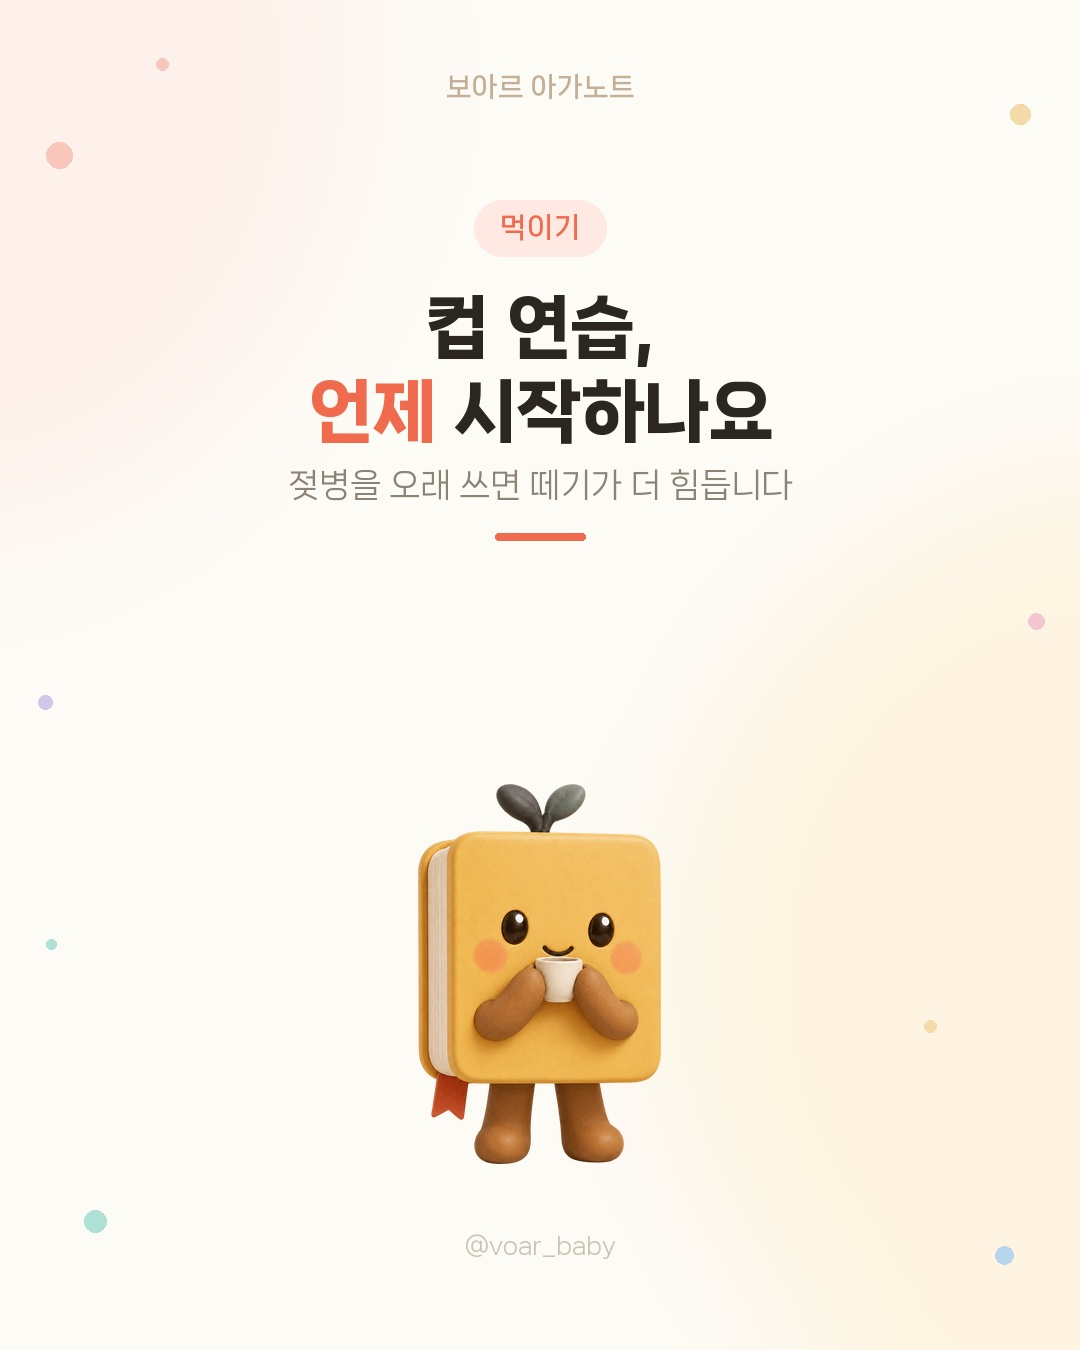
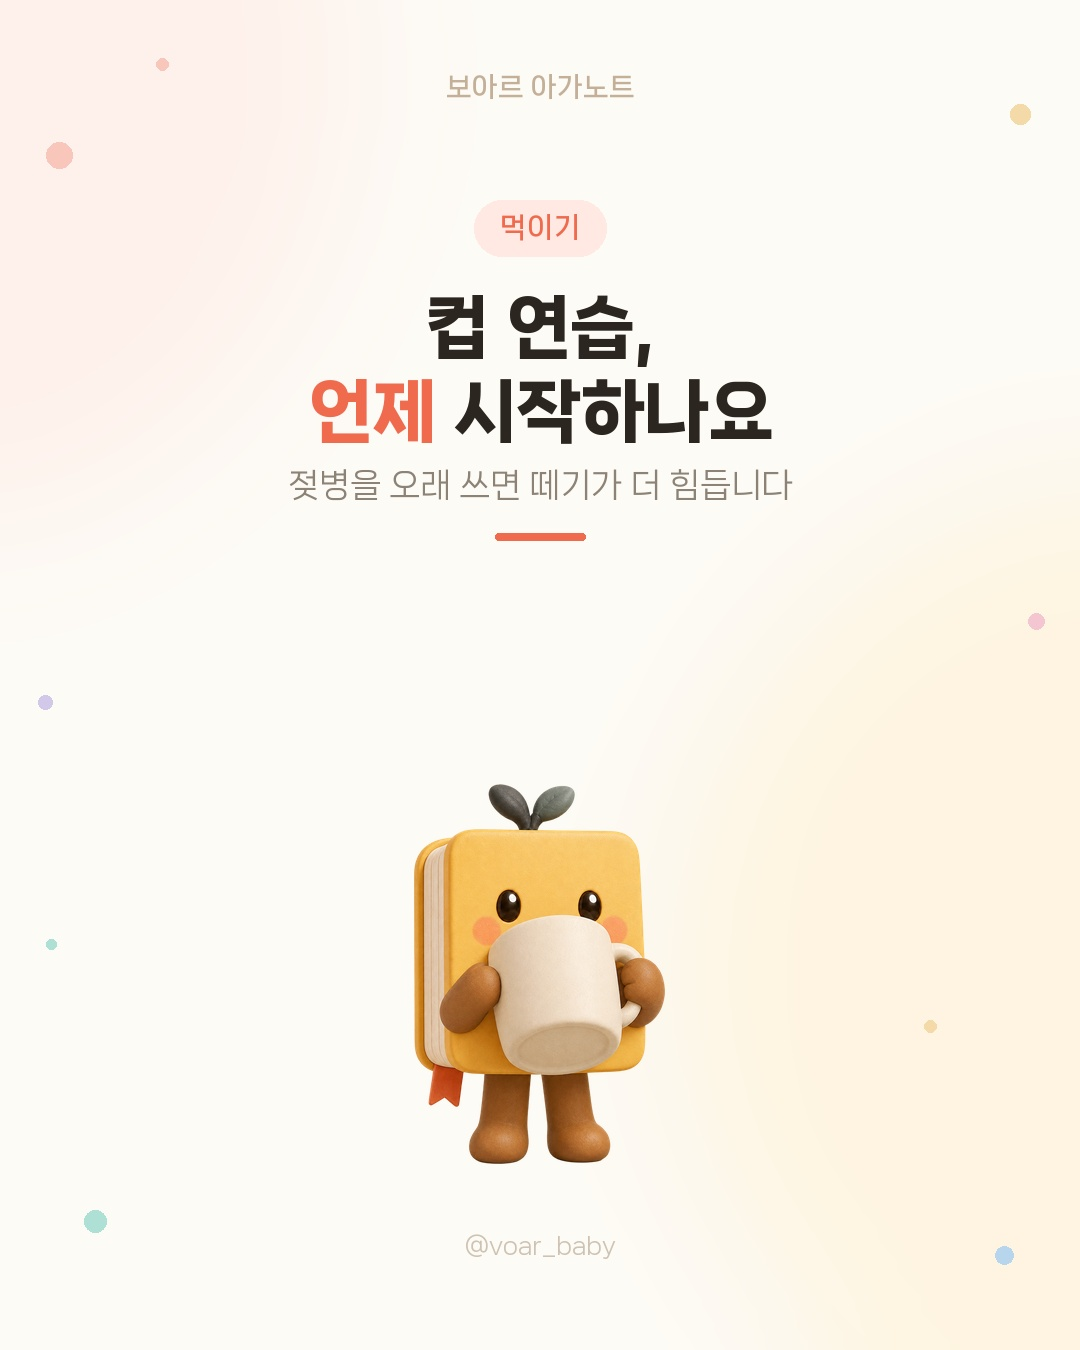
승인 대기 4건 표지에 주제별 노티 적용
컵 연습·아기 물·백일의 기적·배꼽 소독. 소품이 작으면 안 읽혀서
컵은 크게 다시 뽑았다. 배꼽 편은 반창고가 안 나와 원래 걱정 포즈와
비슷해졌다 — 주제에 따라 AI 가 보탤 게 없는 경우가 있다.

Changed region(s): [[0.3667, 0.6222, 0.6417, 0.8711], [0.4278, 0.56, 0.55, 0.6222]]

diff --git a/_studio/posts_a7.py b/_studio/posts_a7.py
@@ -197,8 +197,8 @@ A7['navel'] = [
  dict(kind='text', eyebrow='위생', top=200, size=68,
       title=[['배꼽 소독,'], [('언제까지',), ' 하나요']],
       sub='건드리기 무서우시죠',
-      lines=[], noti=({'name': 'swab_hold',
-             'prompt': '한 손에 면봉을 조심스럽게 들고 있는 모습, 조금 걱정스러운 표정',
+      lines=[], noti=({'name': 'navel_patch',
+             'prompt': '배 한가운데에 동그란 반창고가 붙어 있고 두 손으로 배를 살짝 감싼 모습',
              'base': 'worry'}, 380), noti_y=186),
  dict(kind='rows', eyebrow='기간', title=[['떨어지고'], [('며칠',), ' 더']],
       rows=[('떨어지는 시기', '1~2주', '3주까지도 정상입니다', 'clock', 'mint'),

diff --git a/_studio/posts_b7.py b/_studio/posts_b7.py
@@ -78,8 +78,8 @@ B7['cup'] = [
  dict(kind='text', eyebrow='먹이기', top=200, size=68,
       title=[['컵 연습,'], [('언제',), ' 시작하나요']],
       sub='젖병을 오래 쓰면 떼기가 더 힘듭니다',
-      lines=[], noti=({'name': 'cup_drink',
-             'prompt': '두 손으로 작은 컵을 들고 입에 대고 마시는 모습',
+      lines=[], noti=({'name': 'cup_big',
+             'prompt': '커다란 머그컵을 두 손으로 꼭 잡고 입에 대고 마시는 모습, 컵이 얼굴만큼 크게',
              'base': 'curious'}, 380), noti_y=186),
  dict(kind='rows', eyebrow='시기', title=[[('6개월',), ' 무렵부터']],
       sub='이유식 시작할 때 같이 하면 자연스러워요',
